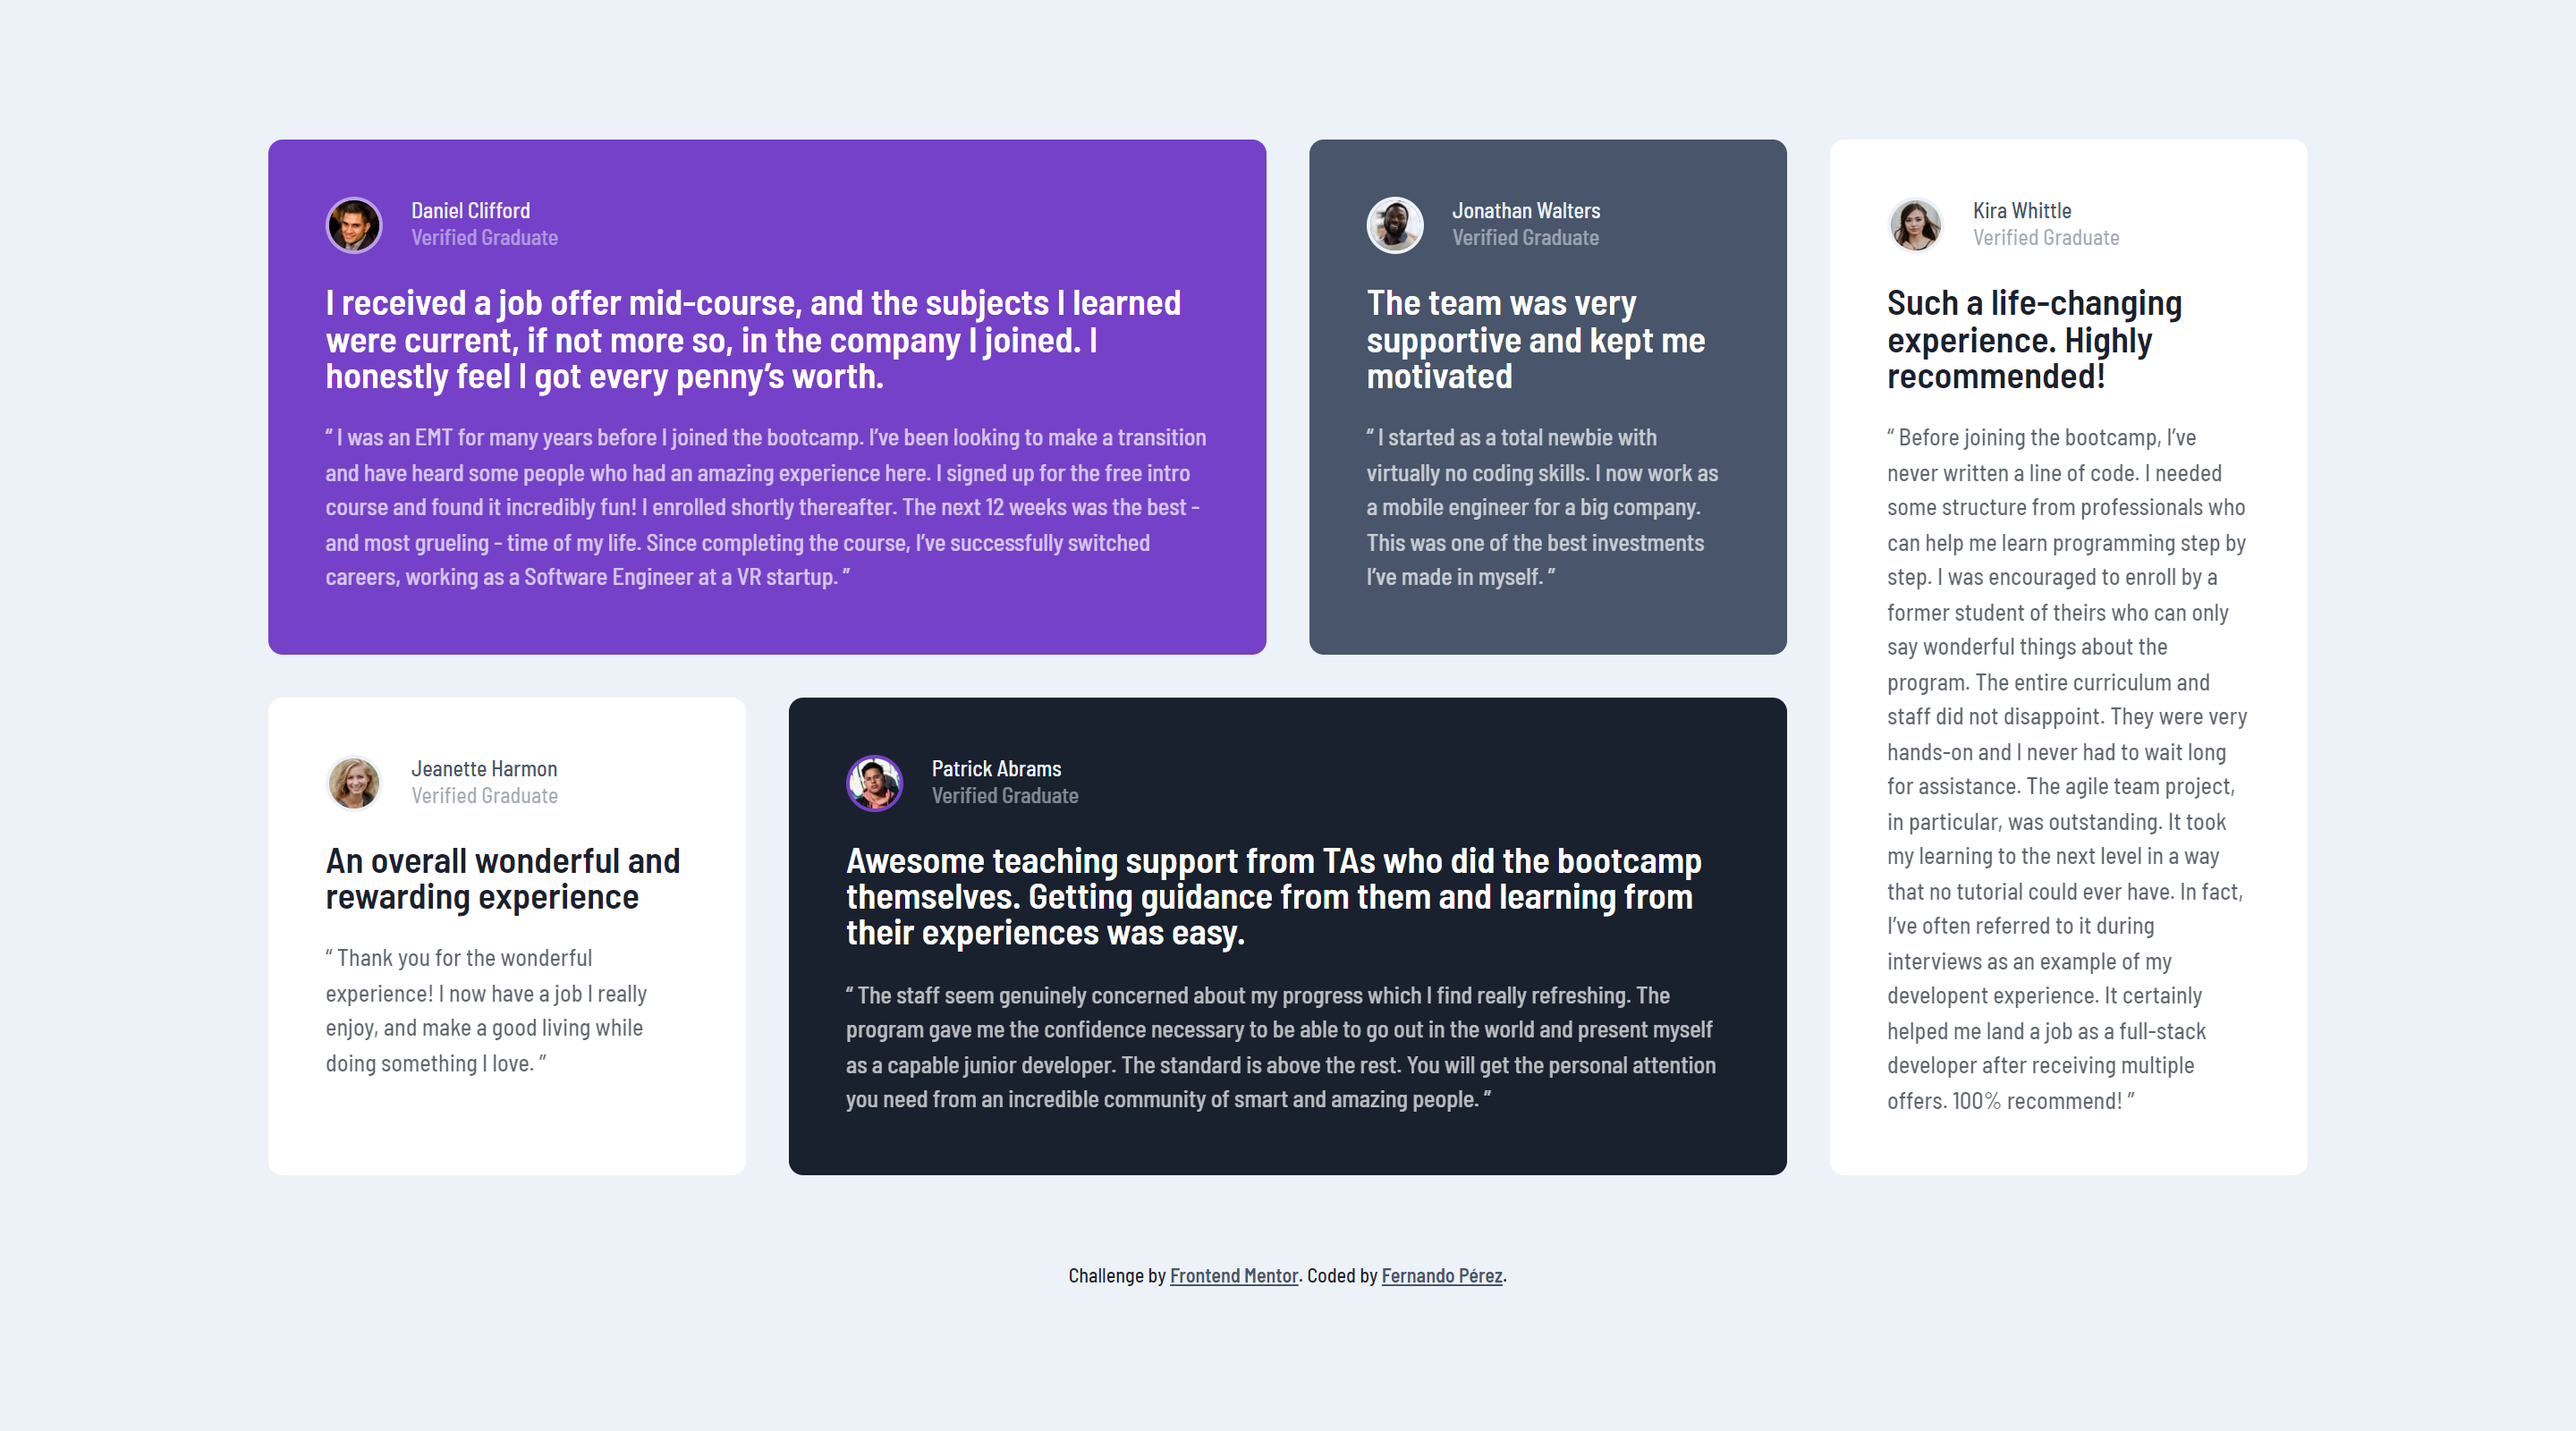
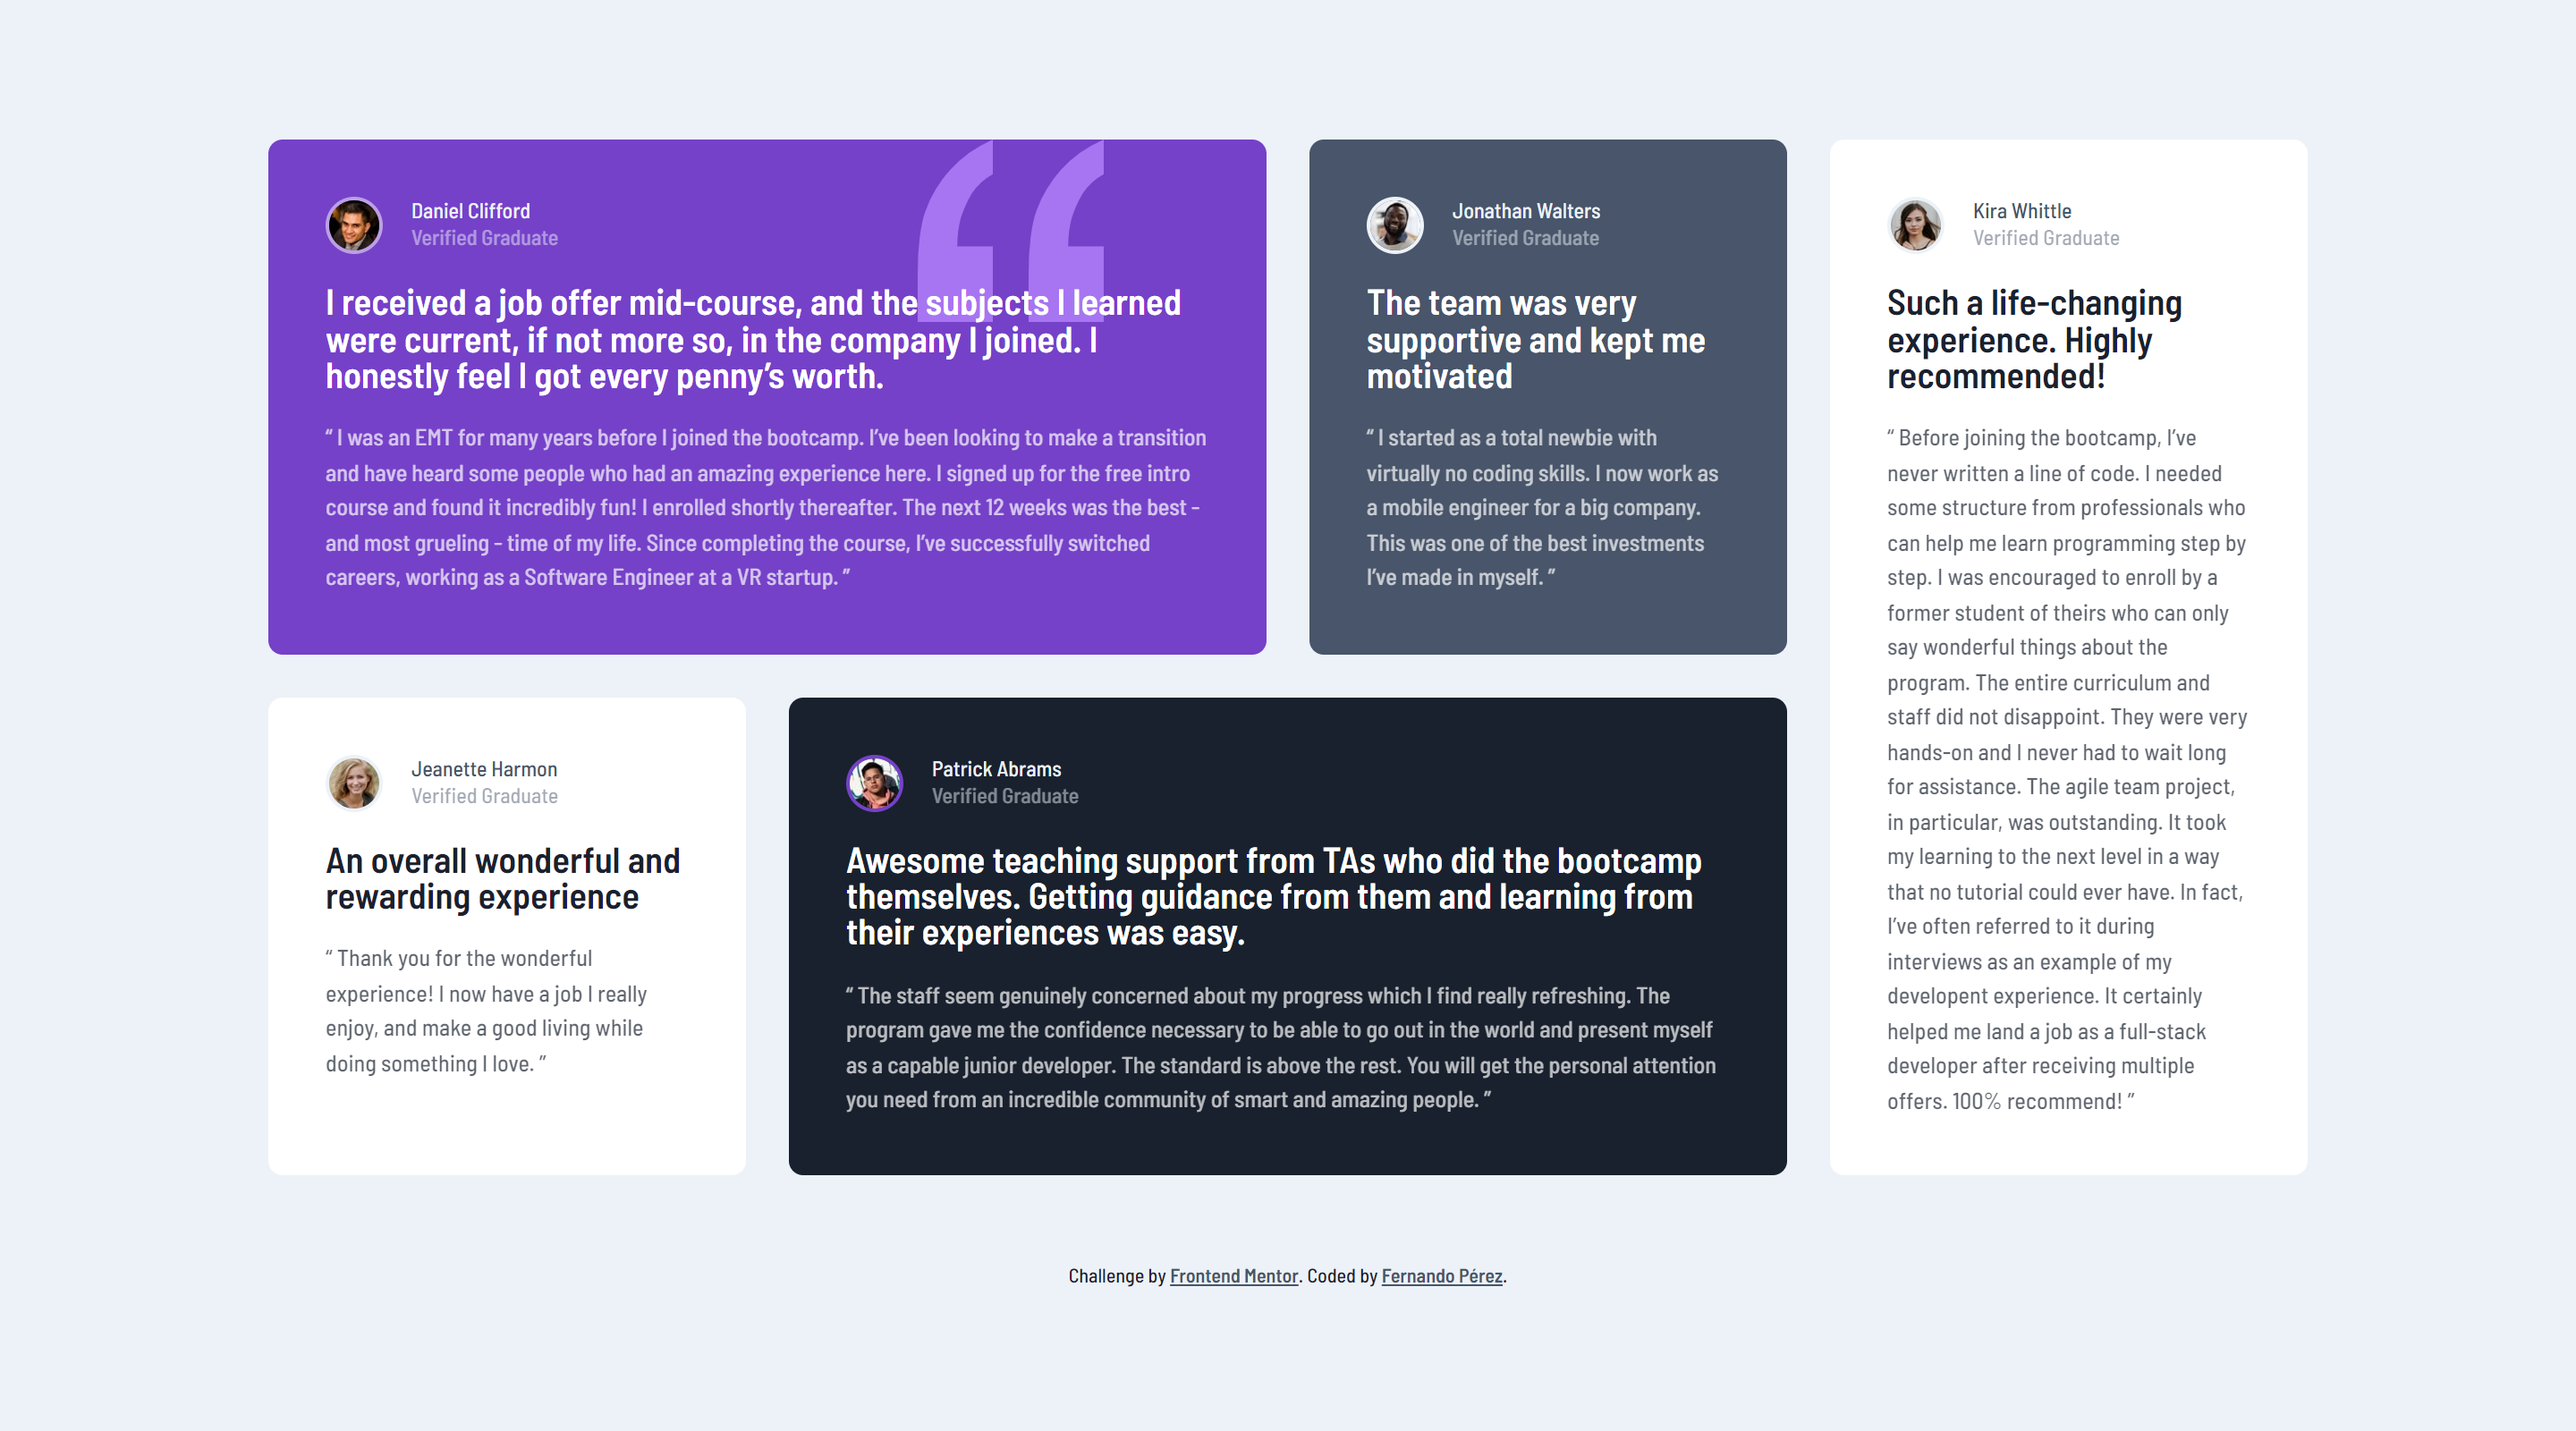
Adding background to first card

Changed region(s): [[0.3438, 0.0938, 0.4375, 0.25], [0.375, 0.5312, 0.4062, 0.5625]]

diff --git a/css/styles.css b/css/styles.css
@@ -1,1 +1,1 @@
-:root{--primary-clr-Violet:#7541c8;--primary-clr-Graish-blue:#48556a;--primary-clr-Blackish-blue:#19212e;--white:#fff;--neutral-clr-Gray:#cfcfcf;--neutral-clr-Grayish-blue:#ecf2f8;--ff-base:'Barlow Semi Condensed',sans-serif;--fw-500:500;--fw-600:600}*,*:before,*:after{box-sizing:border-box}*{margin:0;padding:0}body{line-height:1.5;-webkit-font-smoothing:antialiased}img,picture,video,canvas,svg{display:block;max-width:100%}input,button,textarea,select{font:inherit}p,h1,h2,h3,h4,h5,h6{overflow-wrap:break-word}html{font-size:100%;scroll-behavior:smooth}body{min-height:100vh;background-color:var(--neutral-clr-Grayish-blue);font-size:.8125rem;font-family:var(--ff-base);padding:4.5rem 1.5rem;display:flex;flex-direction:column;justify-content:center}.card--purple-bg{background-color:var(--primary-clr-Violet)}.card--gray-bg{background-color:var(--primary-clr-Graish-blue)}.card--white-bg{background-color:var(--white)}.card--blue-bg{background-color:var(--primary-clr-Blackish-blue)}.card--white-bg{background-color:var(--white)}.container{width:100%;max-width:1140px;margin:0 auto;display:grid;gap:1.5rem}.profile-wrapper{display:flex;column-gap:1rem}.container__card{border-radius:.5rem;padding:2rem}.card__pfp{width:2rem;height:2rem;border-radius:50%;border:.125rem solid var(--neutral-clr-Grayish-blue)}.border--light-clr{border-color:rgba(255,255,255,.5)}.border--violet-clr{border-color:var(--primary-clr-Violet)}.wrapper-name-vg{line-height:1.25}.card__testimonial-name{font-size:.75rem;color:var(--neutral-clr-Grayish-blue);font-weight:var(--fw-500)}.card__testimonial-vg{font-size:.75rem;color:var(--neutral-clr-Grayish-blue);font-weight:var(--fw-500);opacity:.5}.card__text-title{color:var(--white);font-size:1.2719rem;font-weight:var(--fw-600);line-height:1;margin:1rem 0}.card__text{color:var(--white);font-size:.8125rem;font-weight:var(--fw-500);opacity:.7}.gray--clr{color:var(--primary-clr-Graish-blue)}.black--clr{color:var(--primary-clr-Blackish-blue)}.footer{display:none;color:var(--primary-clr-Blackish-blue);font-size:.6875rem;text-align:center;margin-top:3rem}.footer__link{color:var(--primary-clr-Graish-blue);font-weight:var(--fw-600)}.footer__link:hover{transition:.275s;opacity:.7}@media (min-width:42.5rem){.container{grid-template-columns:1fr 1fr}.container__card:nth-of-type(1){grid-column:span 2}.container__card:nth-of-type(4){grid-column:2/3}.container__card:last-of-type{grid-row:3/4}}@media (min-width:62.5rem){.container{grid-template-columns:repeat(4,1fr)}.container__card:last-of-type{grid-row:1/3;grid-column:4/5}.container__card:nth-of-type(4){grid-column:span 2}}@media (min-width:72.5rem) and (min-height:41.6875rem){body{padding:0}}
+:root{--primary-clr-Violet:#7541c8;--primary-clr-Graish-blue:#48556a;--primary-clr-Blackish-blue:#19212e;--white:#fff;--neutral-clr-Gray:#cfcfcf;--neutral-clr-Grayish-blue:#ecf2f8;--ff-base:'Barlow Semi Condensed',sans-serif;--fw-500:500;--fw-600:600}*,*:before,*:after{box-sizing:border-box}*{margin:0;padding:0}body{line-height:1.5;-webkit-font-smoothing:antialiased}img,picture,video,canvas,svg{display:block;max-width:100%}input,button,textarea,select{font:inherit}p,h1,h2,h3,h4,h5,h6{overflow-wrap:break-word}html{font-size:100%;scroll-behavior:smooth}body{min-height:100vh;background-color:var(--neutral-clr-Grayish-blue);font-size:.8125rem;font-family:var(--ff-base);padding:4.5rem 1.5rem;display:flex;flex-direction:column;justify-content:center}.card--purple-bg{background-color:var(--primary-clr-Violet)}.card--gray-bg{background-color:var(--primary-clr-Graish-blue)}.card--white-bg{background-color:var(--white)}.card--blue-bg{background-color:var(--primary-clr-Blackish-blue)}.card--white-bg{background-color:var(--white)}.container{width:100%;max-width:1140px;margin:0 auto;display:grid;gap:1.5rem}.profile-wrapper{display:flex;column-gap:1rem}.container__card{border-radius:.5rem;padding:2rem}.container__card:nth-of-type(1){background-image:url(../assets/images/bg-pattern-quotation.svg);background-repeat:no-repeat;background-position:top right 20%}.card__pfp{width:2rem;height:2rem;border-radius:50%;border:.125rem solid var(--neutral-clr-Grayish-blue)}.border--light-clr{border-color:rgba(255,255,255,.5)}.border--violet-clr{border-color:var(--primary-clr-Violet)}.wrapper-name-vg{line-height:1.25}.card__testimonial-name{font-size:.75rem;color:var(--neutral-clr-Grayish-blue);font-weight:var(--fw-500)}.card__testimonial-vg{font-size:.75rem;color:var(--neutral-clr-Grayish-blue);font-weight:var(--fw-500);opacity:.5}.card__text-title{color:var(--white);font-size:1.2719rem;font-weight:var(--fw-600);line-height:1;margin:1rem 0}.card__text{color:var(--white);font-size:.8125rem;font-weight:var(--fw-500);opacity:.7}.gray--clr{color:var(--primary-clr-Graish-blue)}.black--clr{color:var(--primary-clr-Blackish-blue)}.footer{display:none;color:var(--primary-clr-Blackish-blue);font-size:.6875rem;text-align:center;margin-top:3rem}.footer__link{color:var(--primary-clr-Graish-blue);font-weight:var(--fw-600)}.footer__link:hover{transition:.275s;opacity:.7}@media (min-width:42.5rem){.container{grid-template-columns:1fr 1fr}.container__card:nth-of-type(1){grid-column:span 2}.container__card:nth-of-type(4){grid-column:2/3}.container__card:last-of-type{grid-row:3/4}}@media (min-width:62.5rem){.container{grid-template-columns:repeat(4,1fr)}.container__card:last-of-type{grid-row:1/3;grid-column:4/5}.container__card:nth-of-type(4){grid-column:span 2}}@media (min-width:72.5rem) and (min-height:41.6875rem){body{padding:0}}

diff --git a/css/styles-no-minified.css b/css/styles-no-minified.css
@@ -69,6 +69,11 @@ body {
   border-radius: .5rem;
   padding: 2rem;
 }
+.container__card:nth-of-type(1) {
+  background-image: url(../assets/images/bg-pattern-quotation.svg);
+  background-repeat: no-repeat;
+  background-position: top right 20%;
+}
 .card__pfp {
   width: 2rem;
   height: 2rem;
